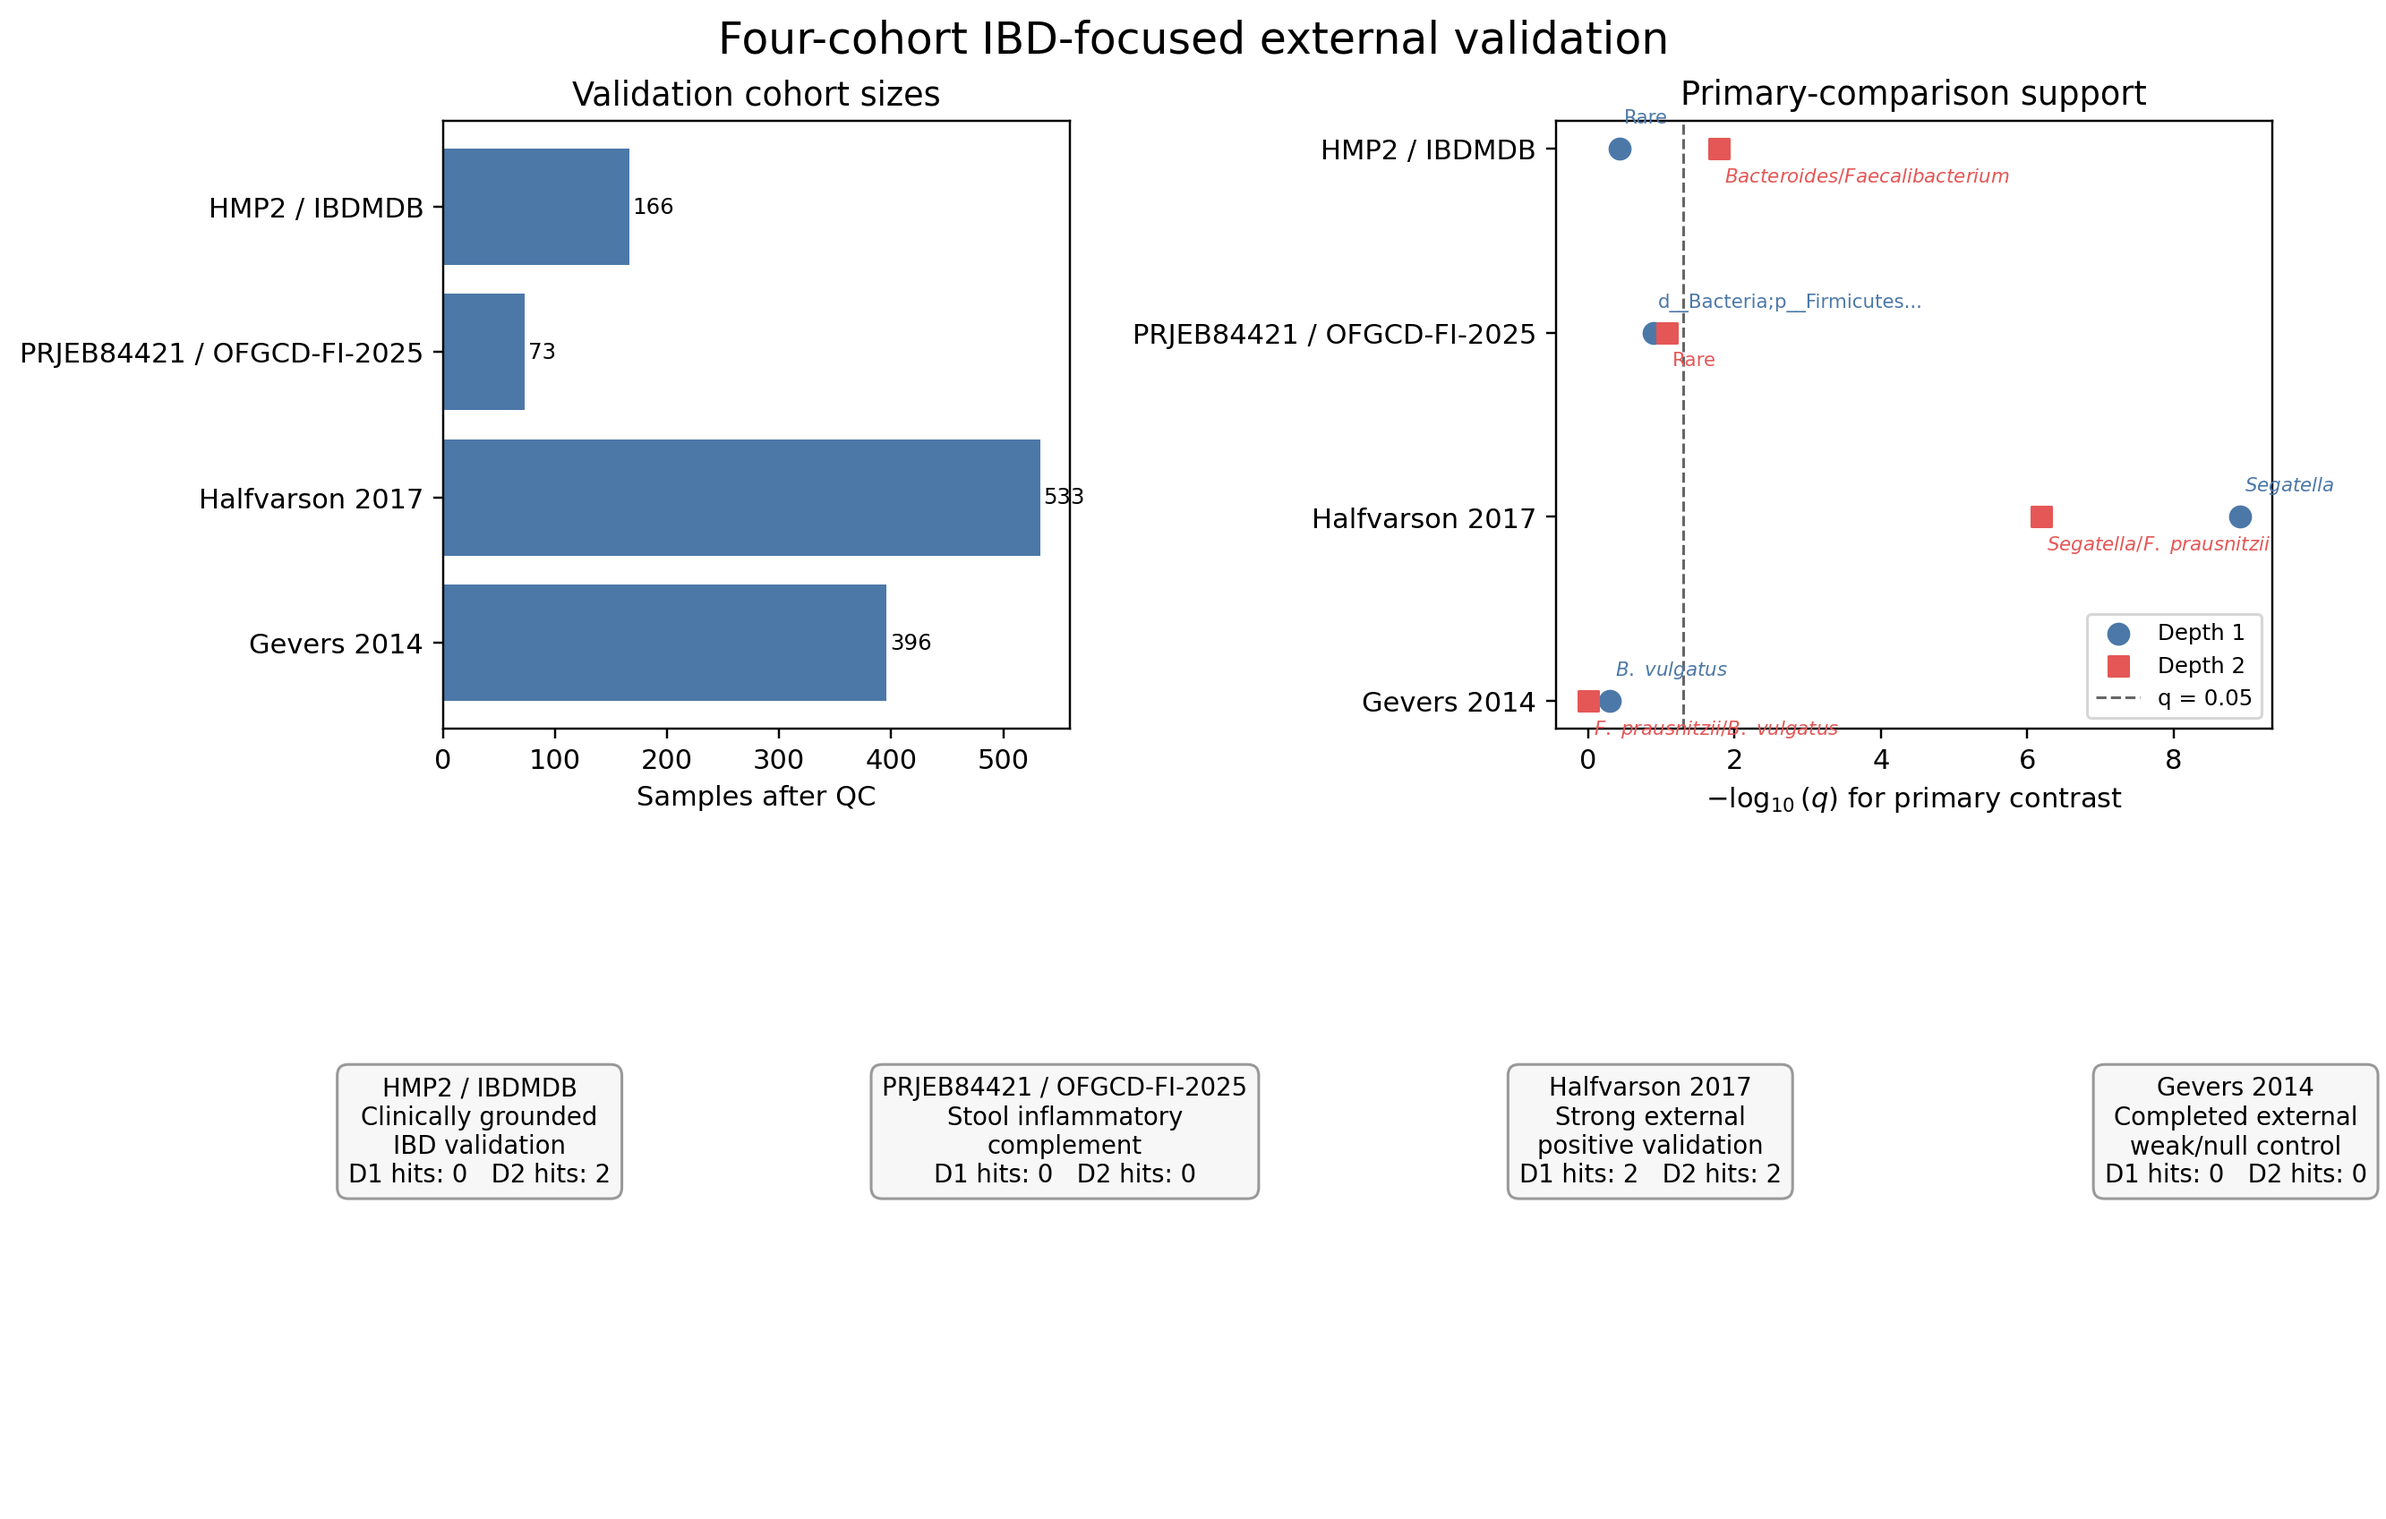
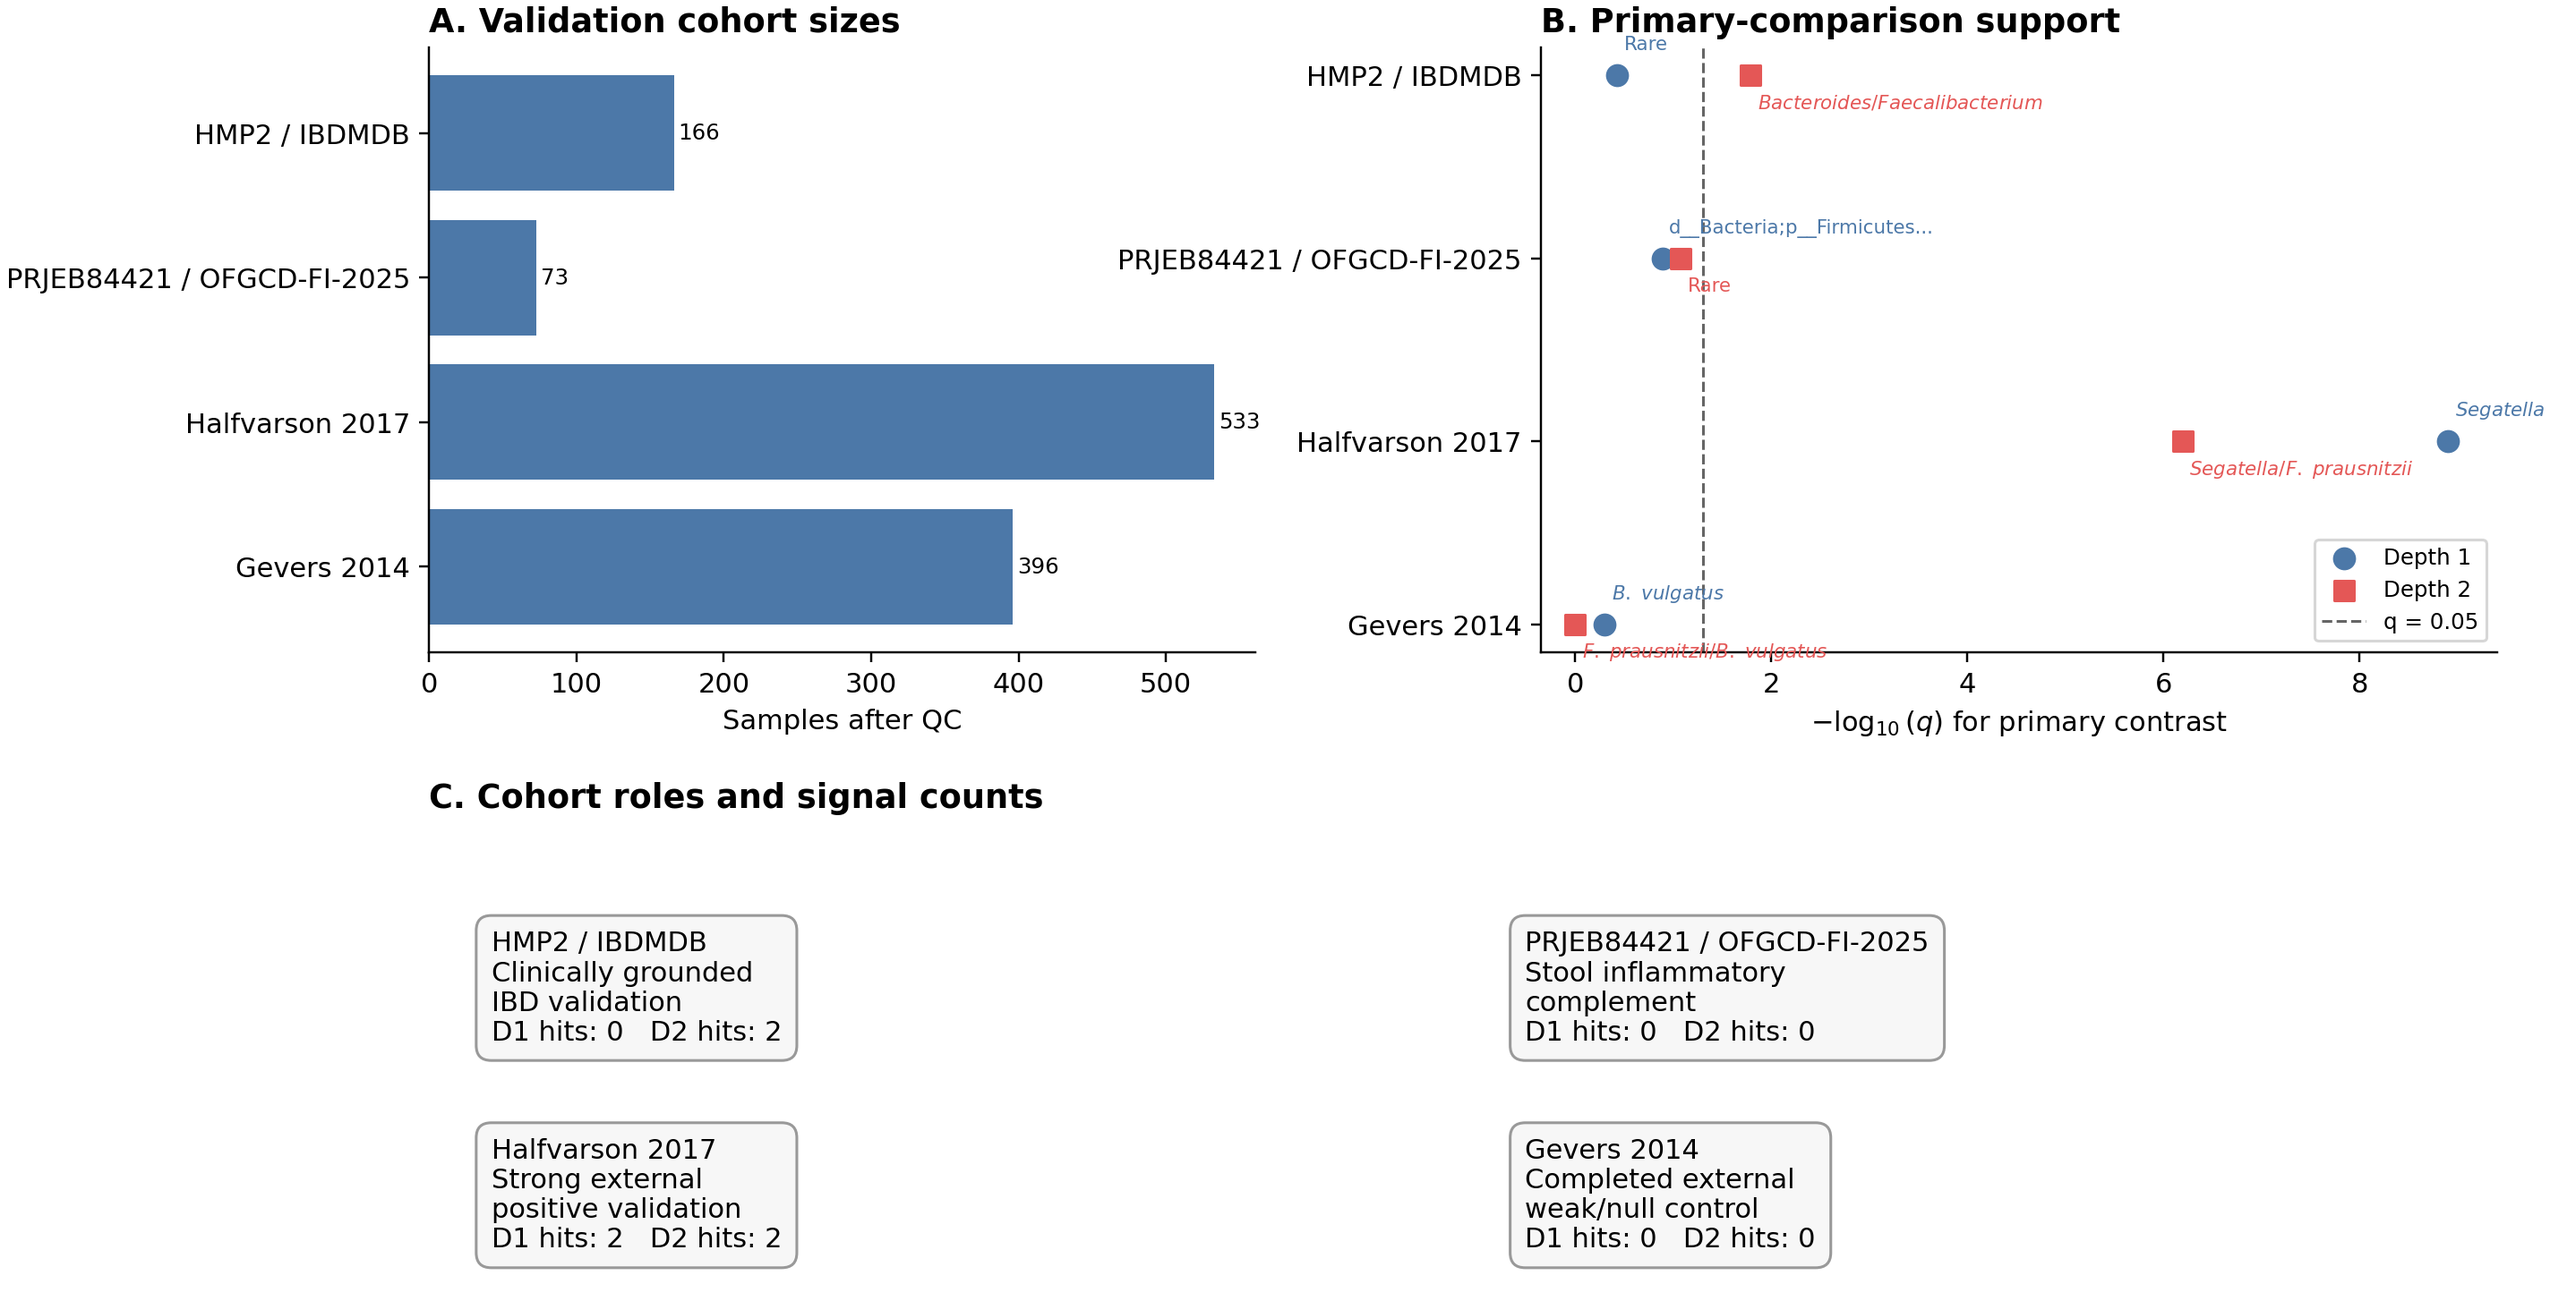
Refine gut DCST Figure 7 layout

diff --git a/papers/gut-dcst/scripts/build_four_cohort_validation_figure.py b/papers/gut-dcst/scripts/build_four_cohort_validation_figure.py
@@ -92,8 +92,15 @@ def main() -> None:
     plot_df["depth1_score"] = -np.log10(plot_df["depth1_q"].clip(lower=1e-12))
     plot_df["depth2_score"] = -np.log10(plot_df["depth2_q"].clip(lower=1e-12))
 
-    fig = plt.figure(figsize=(12, 7.6), constrained_layout=True)
-    gs = fig.add_gridspec(2, 2, height_ratios=[1.0, 1.1], width_ratios=[1.05, 1.2])
+    fig = plt.figure(figsize=(11.6, 7.2))
+    gs = fig.add_gridspec(
+        2,
+        2,
+        height_ratios=[1.18, 0.92],
+        width_ratios=[1.02, 1.18],
+        hspace=0.32,
+        wspace=0.32,
+    )
 
     ax1 = fig.add_subplot(gs[0, 0])
     y = np.arange(len(plot_df))
@@ -101,9 +108,12 @@ def main() -> None:
     ax1.set_yticks(y, labels=plot_df["display_name"])
     ax1.invert_yaxis()
     ax1.set_xlabel("Samples after QC")
-    ax1.set_title("Validation cohort sizes")
+    ax1.set_title("A. Validation cohort sizes", loc="left", fontweight="bold")
     for yi, val in zip(y, plot_df["samples_after_qc"]):
         ax1.text(val + 3, yi, str(val), va="center", fontsize=8)
+    ax1.set_xlim(0, plot_df["samples_after_qc"].max() + 28)
+    ax1.spines["top"].set_visible(False)
+    ax1.spines["right"].set_visible(False)
 
     ax2 = fig.add_subplot(gs[0, 1])
     ax2.scatter(plot_df["depth1_score"], y, color="#4c78a8", s=55, label="Depth 1")
@@ -112,8 +122,8 @@ def main() -> None:
     ax2.set_yticks(y, labels=plot_df["display_name"])
     ax2.invert_yaxis()
     ax2.set_xlabel(r"$-\log_{10}(q)$ for primary contrast")
-    ax2.set_title("Primary-comparison support")
-    ax2.legend(loc="lower right", fontsize=8)
+    ax2.set_title("B. Primary-comparison support", loc="left", fontweight="bold")
+    ax2.legend(loc="lower right", fontsize=8, frameon=True, borderpad=0.35)
     for idx, row in plot_df.iterrows():
         ax2.text(
             row["depth1_score"] + 0.07,
@@ -129,11 +139,20 @@ def main() -> None:
             fontsize=7,
             color="#e45756",
         )
+    ax2.spines["top"].set_visible(False)
+    ax2.spines["right"].set_visible(False)
+    ax2.set_xlim(-0.35, max(plot_df["depth1_score"].max(), plot_df["depth2_score"].max()) + 0.5)
 
     ax3 = fig.add_subplot(gs[1, :])
     ax3.axis("off")
-    x_positions = np.linspace(0.02, 0.98, len(plot_df))
-    for x, (_, row) in zip(x_positions, plot_df.iterrows()):
+    ax3.set_title("C. Cohort roles and signal counts", loc="left", fontweight="bold", pad=6)
+    box_specs = [
+        (0.03, 0.53),
+        (0.53, 0.53),
+        (0.03, 0.09),
+        (0.53, 0.09),
+    ]
+    for (x, y0), (_, row) in zip(box_specs, plot_df.iterrows()):
         text = (
             f"{row['display_name']}\n"
             f"{row['role']}\n"
@@ -141,17 +160,18 @@ def main() -> None:
         )
         ax3.text(
             x,
-            0.55,
+            y0,
             text,
-            ha="center",
-            va="center",
-            fontsize=9,
-            bbox=dict(boxstyle="round,pad=0.45", facecolor="#f7f7f7", edgecolor="#999999"),
+            ha="left",
+            va="bottom",
+            fontsize=10,
+            linespacing=1.18,
+            bbox=dict(boxstyle="round,pad=0.55", facecolor="#f7f7f7", edgecolor="#999999"),
             transform=ax3.transAxes,
         )
 
-    fig.suptitle("Four-cohort IBD-focused external validation", fontsize=16)
-    fig.savefig(OUT, dpi=220, bbox_inches="tight")
+    fig.subplots_adjust(left=0.08, right=0.985, top=0.96, bottom=0.08)
+    fig.savefig(OUT, dpi=220, bbox_inches="tight", pad_inches=0.03)
 
 
 if __name__ == "__main__":

diff --git a/papers/gut-dcst/manuscript/gut_application_paper.tex b/papers/gut-dcst/manuscript/gut_application_paper.tex
@@ -812,7 +812,7 @@ Gevers 2014 & 396 & Weak/null depth-1 and depth-2 Crohn-vs-healthy signal in the
 
 \begin{figure}
 \centering
-\includegraphics[width=0.92\linewidth,height=\textheight,keepaspectratio,alt={Four-cohort IBD-focused external validation summary. HMP2 and Halfvarson provide the clearest positive support, while PRJEB84421 adds a stool-based inflammatory complement and Gevers serves as a completed weak/null control. Together they support structural and directional generalization rather than exact AGP-style replication.}]{../assets/figures/FIGURE_V1_four_cohort_external_validation.png}
+\includegraphics[width=0.98\linewidth,height=\textheight,keepaspectratio,alt={Four-cohort IBD-focused external validation summary. HMP2 and Halfvarson provide the clearest positive support, while PRJEB84421 adds a stool-based inflammatory complement and Gevers serves as a completed weak/null control. Together they support structural and directional generalization rather than exact AGP-style replication.}]{../assets/figures/FIGURE_V1_four_cohort_external_validation.png}
 \caption{Four-cohort IBD-focused external validation summary. HMP2 and
 Halfvarson provide the clearest positive support, while PRJEB84421 adds
 a stool-based inflammatory complement and Gevers serves as a completed
